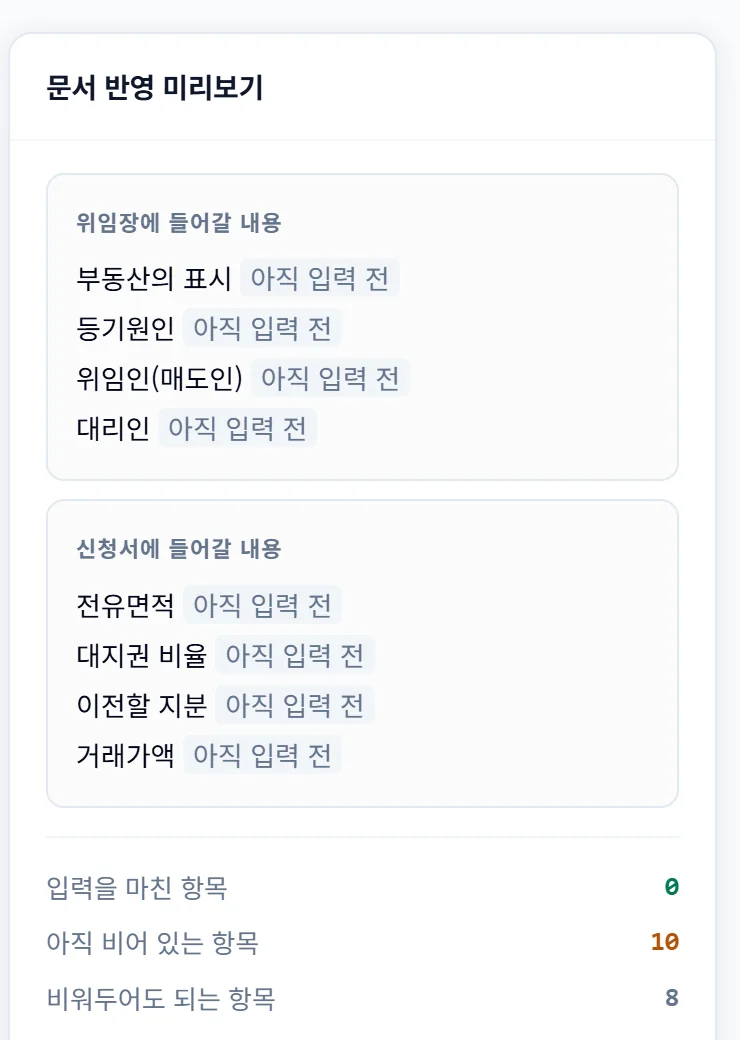
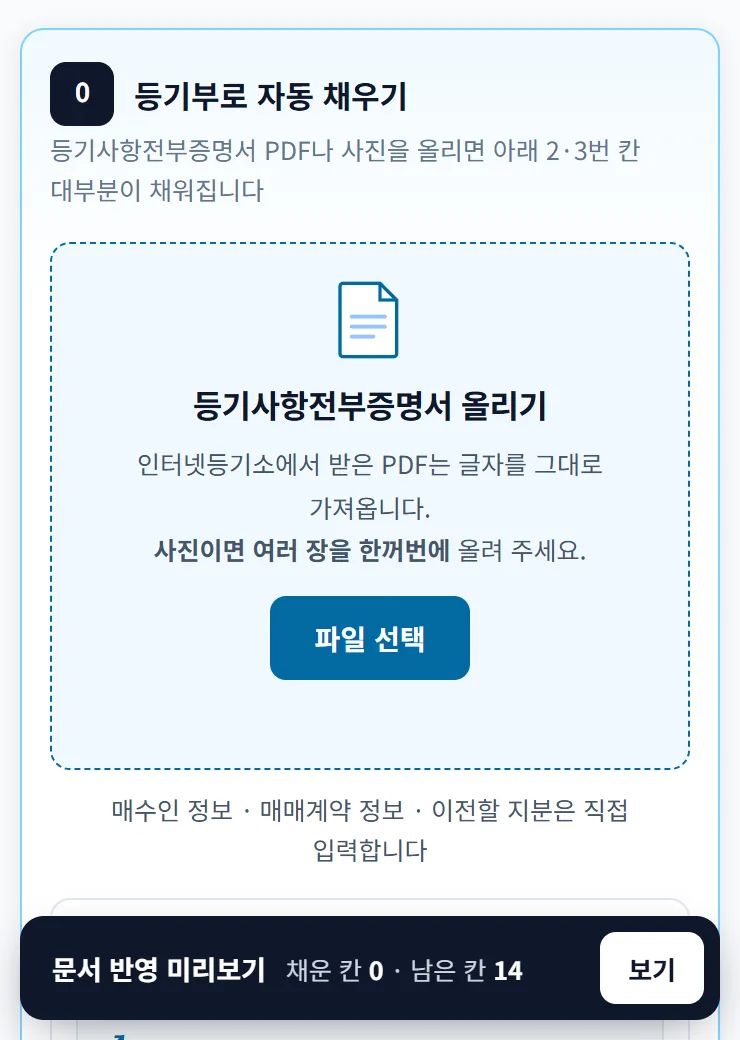
feat: 모바일 히어로 시연 — 등기부 올리기 카드 → 판독 → 미리보기 막대 → 시트(직접 열고 닫기), 현재 서류 작성 화면으로 재캡처(견본 값)

diff --git a/index.html b/index.html
@@ -166,6 +166,47 @@ header{background:var(--bg)}
 .hd-re[hidden]{display:none}
 .hd-re:focus-visible{outline:2px solid var(--blue);outline-offset:2px}
 @media(max-width:700px){.hd,.hd-re{display:none!important}}
+/* 모바일 시연(≤700px, 10/9): 서류 작성 화면 세로 캡처 3장 — 대기(m)·판독 완료(m2)·미리보기 시트(m3, 화면 상단 20%부터).
+   좌표는 캡처 370×520 기준 %(Playwright로 실측). 캡처를 바꾸면 좌표도 다시 잰다. 값은 견본이다. */
+.hdm,.hdm-hit,.hdm-ctl{display:none}
+@media(max-width:700px){
+  .hdm{display:block;position:absolute;inset:0;pointer-events:none;overflow:hidden}
+  .ha-frame .hdm img{position:absolute;left:0;width:100%;aspect-ratio:auto}
+  .hdm-b{top:0;height:100%;opacity:0;transition:opacity .35s}
+  .hdm-dz{position:absolute;left:6.8%;top:23.2%;width:86.5%;height:50.8%;border:2px solid #0369A1;border-radius:10px;background:rgba(3,105,161,.08);opacity:0;transition:opacity .25s}
+  .hdm-file{position:absolute;left:50%;top:106%;transform:translate(-50%,-50%);transition:top 1s cubic-bezier(.4,0,.2,1),opacity .3s,transform .3s}
+  .hdm-doc{display:inline-flex;align-items:center;gap:6px;background:#fff;border:1px solid #CBD5E1;border-radius:8px;padding:7px 10px;font-size:12px;font-weight:700;color:#0F172A;white-space:nowrap;box-shadow:0 6px 16px rgba(15,23,42,.18)}
+  .hdm-doc i{font-style:normal;font-size:11px;font-weight:800;color:#fff;background:#DC2626;border-radius:4px;padding:1px 5px}
+  .hdm-st{position:absolute;left:50%;top:45%;transform:translate(-50%,-50%);background:#0F172A;color:#fff;font-size:12.5px;font-weight:700;padding:6px 14px;border-radius:16px;white-space:nowrap;opacity:0;transition:opacity .25s}
+  .hdm-pr{position:absolute;left:10.8%;top:68.1%;width:78.4%;height:5px;background:#E2E8F0;border-radius:3px;overflow:hidden;opacity:0}
+  .hdm-pr i{display:block;height:100%;width:0;background:#0369A1;transition:width 1.3s linear}
+  .hdm-tap{position:absolute;left:88.1%;top:93%;width:44px;height:44px;margin:-22px 0 0 -22px;border-radius:50%;background:rgba(255,255,255,.6);opacity:0}
+  .hdm-dim{position:absolute;inset:0;background:rgba(15,23,42,.45);opacity:0;transition:opacity .3s}
+  .hdm-sh{top:20%;height:80%;transform:translateY(100%);transition:transform .45s cubic-bezier(.2,.8,.2,1)}
+  .hdm.go .hdm-file{top:48%}
+  .hdm.over .hdm-dz{opacity:1}
+  .hdm.drop .hdm-file{opacity:0;transform:translate(-50%,-50%) scale(.6)}
+  .hdm.read .hdm-st,.hdm.read .hdm-pr{opacity:1}
+  .hdm.read .hdm-pr i{width:100%}
+  .hdm.done .hdm-b{opacity:1}
+  .hdm.done .hdm-st{opacity:0}
+  .hdm.tap .hdm-tap{animation:hdmTap .6s ease-out}
+  @keyframes hdmTap{0%{opacity:.9;transform:scale(.3)}100%{opacity:0;transform:scale(1.6)}}
+  .hdm.sheet .hdm-dim{opacity:1}
+  .hdm.sheet .hdm-sh{transform:none}
+  /* 캡처 속 「보기」 막대·「닫기」 자리에 실제 버튼을 겹친다 — 눌러서 시트를 직접 열고 닫는다 */
+  .hdm-hit{display:block;position:absolute;z-index:2;background:transparent;border:0;padding:0;cursor:pointer;-webkit-tap-highlight-color:transparent;border-radius:12px}
+  .hdm-hit[hidden]{display:none}
+  .hdm-hit:focus-visible{outline:2px solid #7DD3FC;outline-offset:-2px}
+  .hdm-see{left:2.7%;top:88.1%;width:94.6%;height:10%}
+  .hdm-x{left:81.4%;top:23.1%;width:13.5%;height:6.9%}
+  .hdm-ctl{display:flex;gap:6px;position:absolute;right:8px;top:6px;z-index:3;align-items:center}
+  .hdm-tag{font-size:11px;font-weight:700;color:#475569;background:rgba(241,245,249,.94);border:1px solid #CBD5E1;border-radius:10px;padding:2px 8px}
+  .hdm-re{font-family:inherit;font-size:12px;font-weight:700;color:#0F172A;background:#fff;border:1px solid #CBD5E1;border-radius:14px;padding:0 12px;min-height:28px;cursor:pointer;box-shadow:0 2px 6px rgba(15,23,42,.12)}
+  .hdm-re[hidden]{display:none}
+  .hdm-re:focus-visible{outline:2px solid var(--blue);outline-offset:2px}
+}
+@media(prefers-reduced-motion:reduce){.hdm *{transition:none!important;animation:none!important}}
 
 
 /* ── 신뢰 지표 배너 ── */
@@ -724,7 +765,7 @@ html.mnav-open,html.mnav-open body{overflow:hidden}
     </div>
     <!-- 실제 작성 화면 — 10/9 히어로에서 이 자리로 옮겼다(설명 없이 뜬금없이 보인다는 사용자 피드백).
          비교 칼럼의 「셀프등기24로 작성할 때」를 실제 화면으로 이어서 보여준다. -->
-    <div class="ha-head"><div class="ha-label">실제 작성 화면</div><p class="ha-lead">등기부 PDF를 올리면 오른쪽 미리보기에 읽은 값이 채워집니다.</p></div>
+    <div class="ha-head"><div class="ha-label">실제 작성 화면</div><p class="ha-lead">등기부 PDF를 올리면 미리보기에 읽은 값이 채워집니다.</p></div>
     <div class="hero-app">
       <div class="ha-tabs" role="tablist" aria-label="등기 종류">
         <button type="button" class="ha-tab" role="tab" id="hatab-transfer" aria-selected="true" aria-controls="hapanel-transfer">소유권이전등기</button>
@@ -755,6 +796,20 @@ html.mnav-open,html.mnav-open body{overflow:hidden}
             <span class="hd-tag">시연 · 견본 값</span>
           </div>
           <button type="button" class="hd-re" hidden>다시 보기</button>
+          <!-- 모바일 시연 레이어: PDF가 올라감 → 판독 → 하단 「문서 반영 미리보기」 막대 → 시트. 값은 견본이다. -->
+          <div class="hdm" aria-hidden="true">
+            <img class="hdm-b" src="hero_app_transfer_m2@1x.webp" srcset="hero_app_transfer_m2@1x.webp 370w, hero_app_transfer_m2.webp 740w" sizes="calc(100vw - 40px)" width="370" height="520" alt="" loading="lazy" decoding="async">
+            <div class="hdm-dz"></div>
+            <div class="hdm-file"><span class="hdm-doc"><i>PDF</i>등기사항전부증명서.pdf</span></div>
+            <div class="hdm-st">등기부를 읽는 중…</div>
+            <div class="hdm-pr"><i></i></div>
+            <span class="hdm-tap"></span>
+            <div class="hdm-dim"></div>
+            <img class="hdm-sh" src="hero_app_transfer_m3@1x.webp" srcset="hero_app_transfer_m3@1x.webp 370w, hero_app_transfer_m3.webp 740w" sizes="calc(100vw - 40px)" width="370" height="416" alt="" loading="lazy" decoding="async">
+          </div>
+          <button type="button" class="hdm-hit hdm-see" aria-label="문서 반영 미리보기 열기(견본)"></button>
+          <button type="button" class="hdm-hit hdm-x" aria-label="미리보기 닫기" hidden></button>
+          <div class="hdm-ctl"><span class="hdm-tag">시연 · 견본 값</span><button type="button" class="hdm-re" hidden>다시 보기</button></div>
         </div>
         <div class="ha-panel" role="tabpanel" id="hapanel-cancel" aria-labelledby="hatab-cancel" hidden>
           <!-- 700px 아래에서는 세로 화면으로 바꾼다 — 가로 캡처를 335px 로 줄이면 글자가 읽히지 않는다(R2-A04와 같은 결함). -->
@@ -1422,6 +1477,38 @@ function trackProof(){ try{ window.SR&&SR.track('guide_open',{from:'proof'}); }c
     es.forEach(function(e){ if(e.isIntersecting&&!played){ played=true; play(); io.disconnect(); } });
   },{threshold:.55});
   io.observe(hd);
+})();
+/* ===== 모바일 시연 (10/9) — 700px 이하에서만 =====
+   올리기 → 판독 → 「보기」 누름 → 미리보기 시트. 끝나면 이용자가 막대·「닫기」를 직접 눌러 열고 닫는다. */
+(function(){
+  var m=document.querySelector('.hdm'), see=document.querySelector('.hdm-see'), x=document.querySelector('.hdm-x'), re=document.querySelector('.hdm-re');
+  if(!m||!see||!x||!re||!window.matchMedia) return;
+  var mq=matchMedia('(max-width:700px)'), reduce=matchMedia('(prefers-reduced-motion: reduce)').matches, timers=[], played=false;
+  function at(ms,fn){ timers.push(setTimeout(fn,ms)); }
+  function sheet(on){ m.classList.toggle('sheet',on); see.hidden=on; x.hidden=!on; }
+  function done(){ timers.forEach(clearTimeout); timers=[]; m.className='hdm done'; sheet(false); re.hidden=false; }
+  function play(){
+    timers.forEach(clearTimeout); timers=[]; m.className='hdm'; sheet(false); re.hidden=true;
+    if(reduce){ done(); return; }
+    at(200,function(){ m.classList.add('go'); });
+    at(1150,function(){ m.classList.add('over'); });
+    at(1450,function(){ m.classList.remove('over'); m.classList.add('drop','read'); });
+    at(3000,function(){ m.classList.add('done'); });
+    at(3900,function(){ m.classList.add('tap'); });
+    at(4200,function(){ sheet(true); re.hidden=false; });
+  }
+  function trk(n,p){ try{ window.SR&&SR.track(n,p||{}); }catch(e){} }
+  see.addEventListener('click',function(){ if(!m.classList.contains('done')) done(); sheet(true); trk('demo_sheet'); });
+  x.addEventListener('click',function(){ sheet(false); see.focus(); });
+  re.addEventListener('click',function(){ play(); trk('demo_replay',{mode:'m'}); });
+  var tab=document.getElementById('hatab-transfer');
+  if(tab) tab.addEventListener('click',function(){ if(played&&mq.matches) play(); });
+  if(!mq.matches) return;
+  if(!('IntersectionObserver' in window)){ done(); played=true; return; }
+  var io=new IntersectionObserver(function(es){
+    es.forEach(function(e){ if(e.isIntersecting&&!played){ played=true; play(); io.disconnect(); } });
+  },{threshold:.55});
+  io.observe(m);
 })();
 </script>
 <script>
